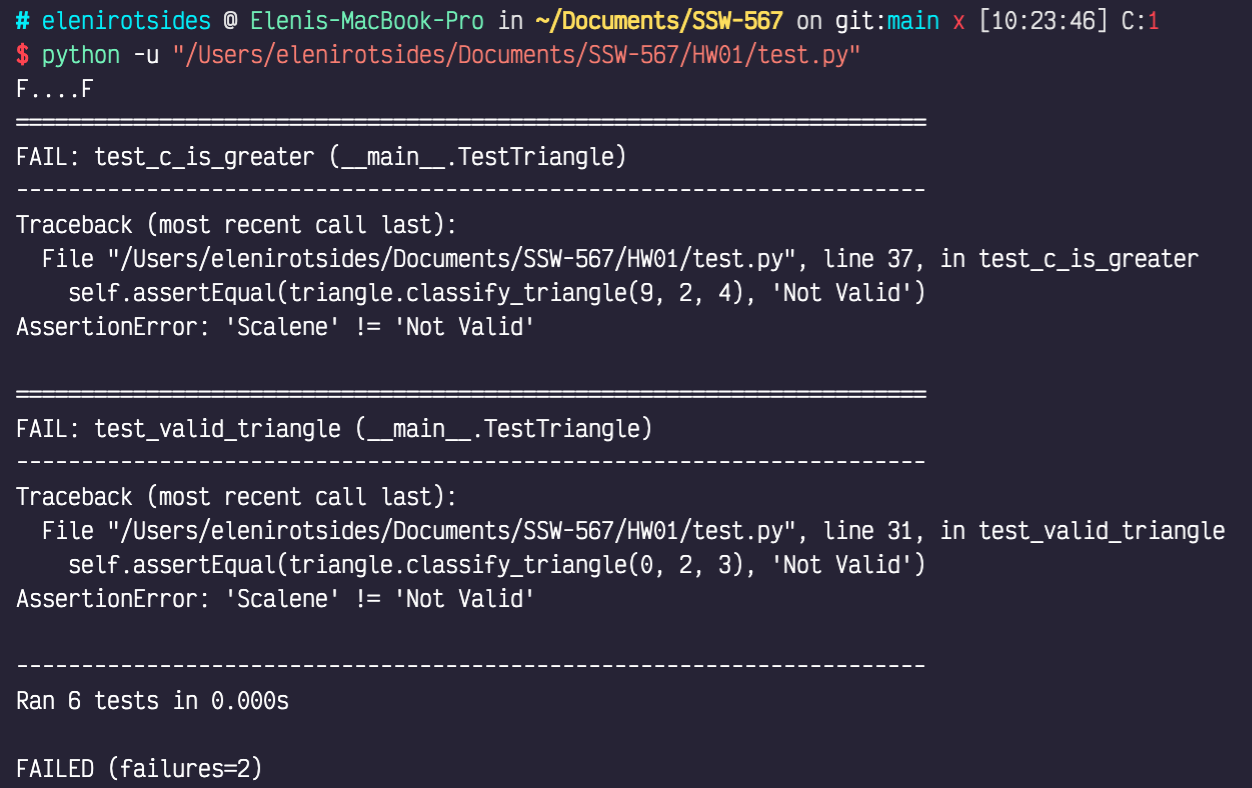
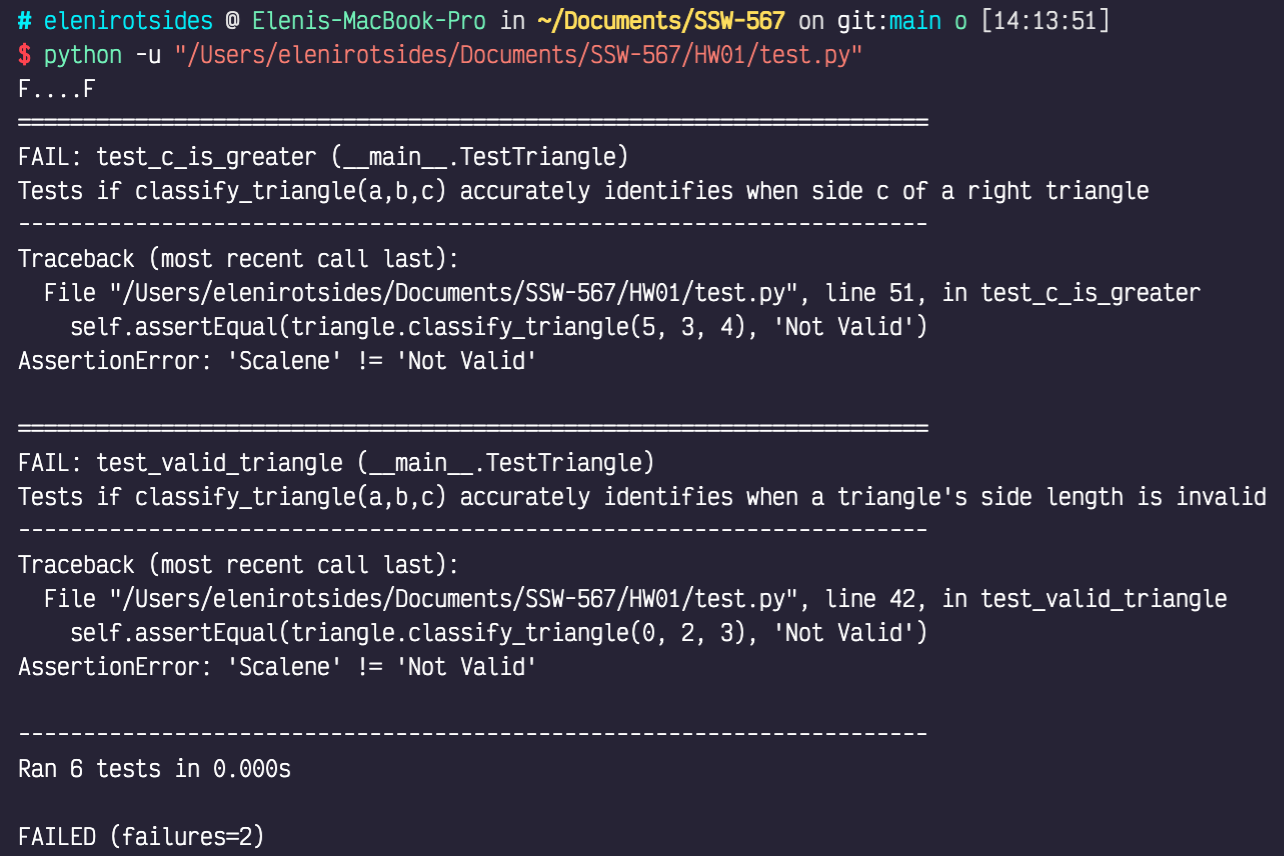
updated hw01

diff --git a/HW01/test.py b/HW01/test.py
@@ -1,9 +1,16 @@
+"""
+Unit tests for classify_triangle(a,b,c)
+
+@author: Eleni Rotsides
+I pledge my honor that I have abided by the Stevens honor system.
+"""
 import unittest
 import triangle
 
 
 class TestTriangle(unittest.TestCase):
     def test_equilateral(self):
+        """Tests that classify_triangle(a,b,c) accurately identifies when a triangle is equilateral"""
         self.assertEqual(triangle.classify_triangle(3, 3, 3), 'Equilateral')
         self.assertNotEqual(triangle.classify_triangle(
             10, 10, 11), 'Equilateral')
@@ -11,24 +18,27 @@ class TestTriangle(unittest.TestCase):
             1, 2, 3), 'Equilateral')
 
     def test_isosceles(self):
+        """Tests that classify_triangle(a,b,c) accurately identifies when a triangle is isosceles"""
         self.assertEqual(triangle.classify_triangle(6, 6, 8), 'Isosceles')
         self.assertNotEqual(
             triangle.classify_triangle(10, 10, 10), 'Isosceles')
         self.assertNotEqual(triangle.classify_triangle(1, 2, 3), 'Isosceles')
 
     def test_scalene(self):
+        """Tests that classify_triangle(a,b,c) accurately identifies when a triangle is scalene"""
         self.assertEqual(triangle.classify_triangle(2, 3, 11), 'Scalene')
         self.assertNotEqual(triangle.classify_triangle(2, 2, 3), 'Scalene')
         self.assertNotEqual(triangle.classify_triangle(2, 2, 2), 'Scalene')
 
     def test_right(self):
+        """Tests that classify_triangle(a,b,c) accurately identifies when a triangle is right"""
         self.assertEqual(triangle.classify_triangle(3, 4, 5), 'Right')
         self.assertNotEqual(triangle.classify_triangle(1, 2, 3), 'Right')
         self.assertNotEqual(triangle.classify_triangle(5, 5, 5), 'Right')
         self.assertNotEqual(triangle.classify_triangle(3, 3, 12), 'Right')
 
     def test_valid_triangle(self):
-        # testing invalid arguments
+        """Tests if classify_triangle(a,b,c) accurately identifies when a triangle's side length is invalid"""
         self.assertEqual(triangle.classify_triangle(0, 2, 3), 'Not Valid')
         self.assertEqual(triangle.classify_triangle(4, 0, 3), 'Not Valid')
         self.assertEqual(triangle.classify_triangle(9, 10, 0), 'Not Valid')
@@ -36,7 +46,8 @@ class TestTriangle(unittest.TestCase):
         self.assertNotEqual(triangle.classify_triangle(9, 10, 0), 'Scalene')
 
     def test_c_is_greater(self):
-        # this is a test case for testing that a right triangle's c is the longest side
+        """Tests if classify_triangle(a,b,c) accurately identifies when side c of a right triangle 
+        isn't greater than all of the other sides"""
         self.assertEqual(triangle.classify_triangle(5, 3, 4), 'Not Valid')
         self.assertNotEqual(triangle.classify_triangle(5, 3, 4), 'Scalene')
 

diff --git a/HW01/triangle.py b/HW01/triangle.py
@@ -1,6 +1,13 @@
-# intenionally introduce bugs so that I can test for them in test.py
+"""
+Intenionally introduced bugs so that I can test for them in test.py
+
+@author: Eleni Rotsides
+I pledge my honor that I have abided by the Stevens honor system.
+"""
+
 
 def classify_triangle(a, b, c):
+    """Given 3 triangle side lengths, this funtion identifies what type of triangle it is"""
     if(a == b and b == c and c == a):
         return 'Equilateral'
     elif(a * a + b * b == c * c):
